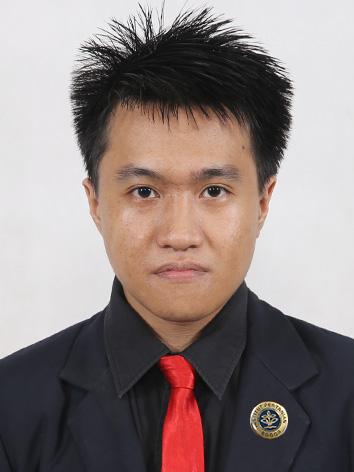
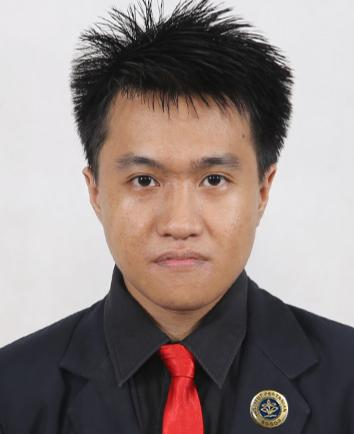
disabling phone and cutting pic

diff --git a/index.html b/index.html
@@ -35,21 +35,20 @@ Smartphone Compatible web template, free webdesigns for Nokia, Samsung, LG, Sony
 			 <img src="images/avt.jpg" alt=""/>
 		 </div>
 		<div class="details">
-			 <h3>PHONE</h3>
-			 <p>+62 852 2172 7243</p>  	 
+			 <!--<h3>PHONE</h3>
+			 <p>+62 852 2172 7243</p>-->  	 
 			 <h3>EMAIL</h3>
-			 <p><a href="mailto@example.com">shaugi.ch@gmail.com</a></p>
+			 <p>shaugi.ch@gmail.com</p>
 			 <address>
 			 <h3>ADDRESS</h3>
-			 <span>GBO, gang amalad,</span>
 			 <span>Cipanas, Cianjur, 43253,</span>
 			 <span>Jawa Barat.</span>
 			 </address>
-			 <languages>
+			 <address>
 			 <h3>LANGUAGES</h3>
 			 <span>Indonesia: native profiency</span>
-			 <span>English: IELTS 6.5, TOEFL ITP 507</span>
-			 </languages>
+			 <span>English: IELTS 6.5, TOEFL 507</span>
+			 </address>
 		</div>
 		<div class="clearfix"></div>
 </div>
